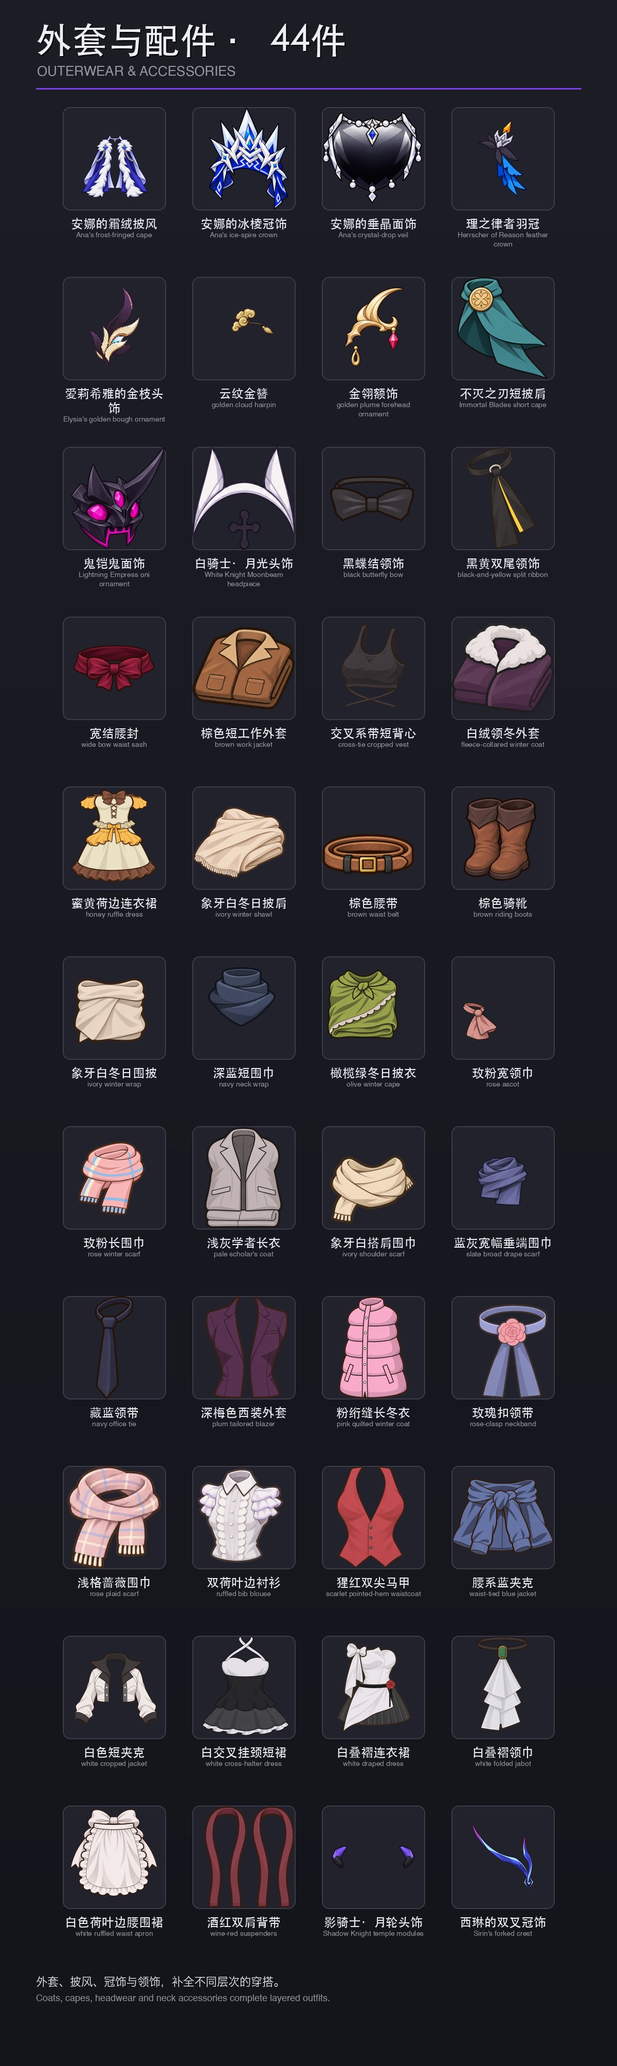
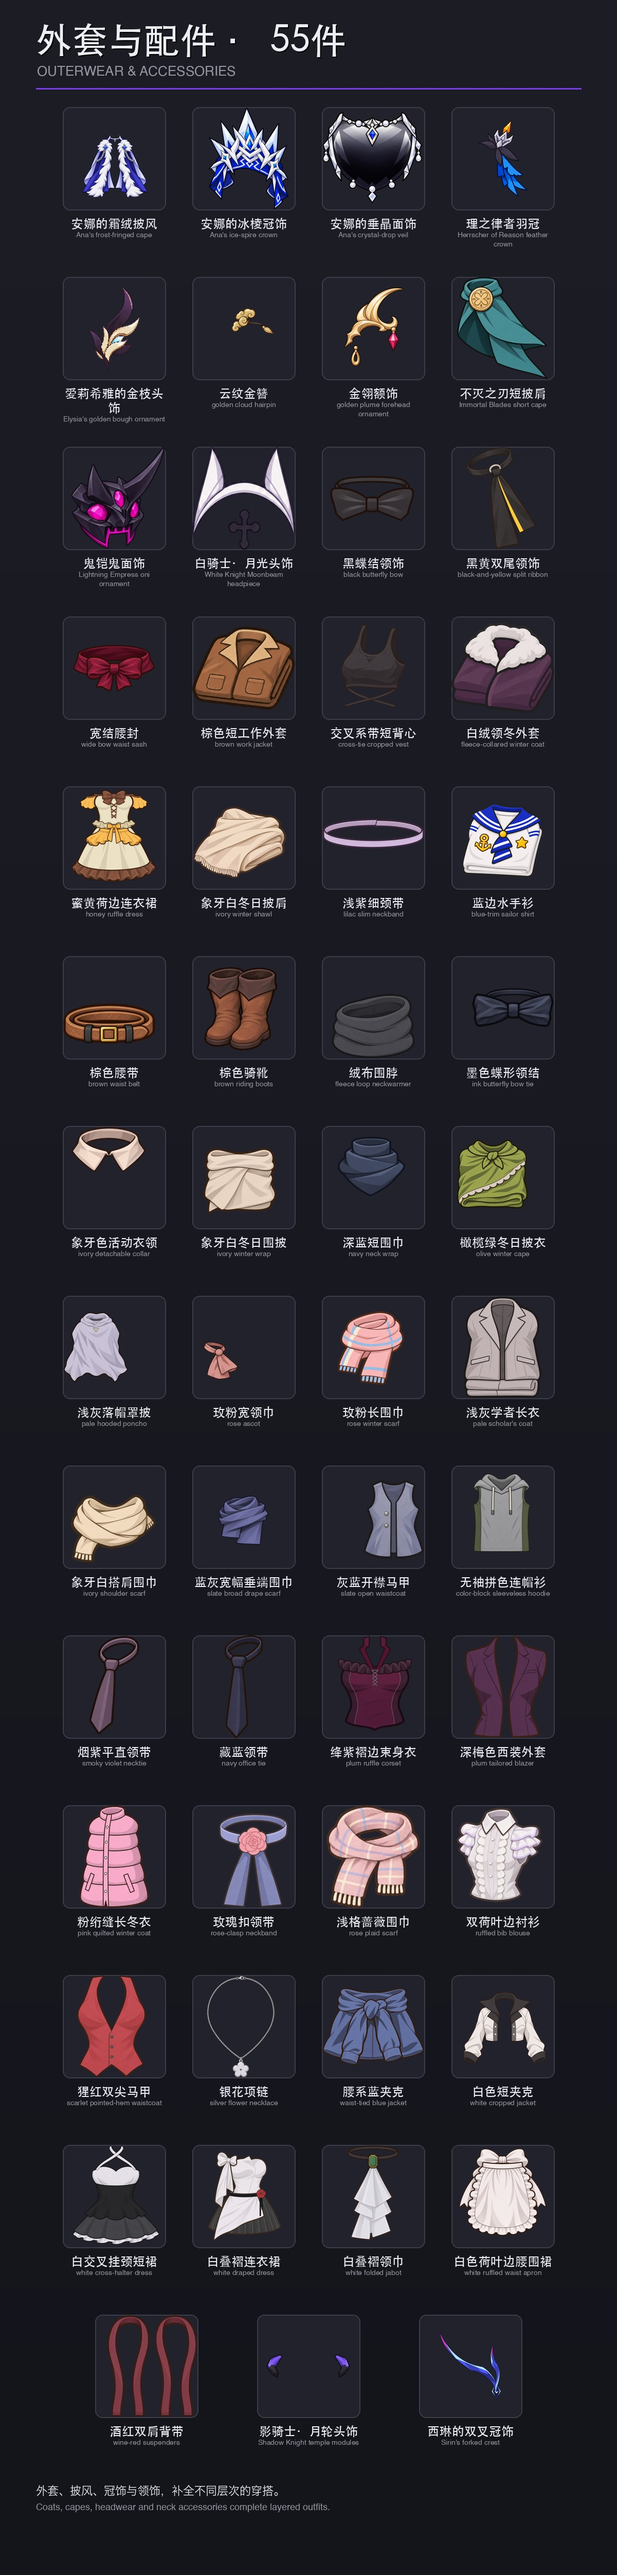
Publish v0.1.5 release notes and Workshop artwork

diff --git a/README.md b/README.md
@@ -1,10 +1,10 @@
 # 边缘崩坏群像
 
-RimWorld 1.6 / 1.7 · Beta v0.1.4
+RimWorld 1.6 / 1.7 · Beta v0.1.5
 
-[下载最新版本](https://github.com/ALANotFound/RimHonkai-Characters-Releases/releases/tag/v0.1.4) · [版本与更新说明](https://github.com/ALANotFound/RimHonkai-Characters-Releases/releases) · [Steam 创意工坊](https://steamcommunity.com/sharedfiles/filedetails/?id=3838570783)
+[下载最新版本](https://github.com/ALANotFound/RimHonkai-Characters-Releases/releases/tag/v0.1.5) · [版本与更新说明](https://github.com/ALANotFound/RimHonkai-Characters-Releases/releases) · [Steam 创意工坊](https://steamcommunity.com/sharedfiles/filedetails/?id=3838570783)
 
-下载 ZIP，解压后将 `RimHonkai-Characters` 文件夹放入游戏的 Mods 目录。请同时安装群像框架 v0.1.4 或更新版本、Harmony 和 HAR。更新后重启游戏，并提前备份存档。
+下载 ZIP，解压后将 `RimHonkai-Characters` 文件夹放入游戏的 Mods 目录。请同时安装群像框架 v0.1.5 或更新版本、Harmony 和 HAR。更新后重启游戏，并提前备份存档。
 
 本库保存发行包、校验文件、发布说明及工坊配图。[源码仓库](https://github.com/ALANotFound/RimHonkai-Characters)。
 

diff --git a/CHANGELOG.md b/CHANGELOG.md
@@ -1,12 +1,14 @@
-# 2026.11.22 v0.1.4 更新公告
+# 2026.11.26 v0.1.5 更新公告
 
 ## 主要更新
 
-- 新增“符华·云墨丹心”和“识之律者·默认形态”外观及配套衣装、饰品
-- 新增59款公共发型，其中男性30款、女性29款
-- 新增39件男女公共服装与配件，涵盖日常衣装、外套、裙装和领饰
-- 新增群像服装分类，区分公共服装、角色服装与头饰配件
+- 修复群像人种生成时无法使用本体已有崩坏异种基因组合的问题
+- 优化多款男性公共发型，移除9款发型选项，并将2款束发、盘发调整至女性公共发型池
+- 优化多款女性公共发型的轮廓、方向衔接与贴合，移除9款女性发型选项
+- 新增“银花项链”“浅紫细颈带”和“绛紫褶边束身衣”，优化穿戴贴合与饰品辨识度
 
-请同时更新群像外观框架至 v0.1.4 或更新版本，并重启游戏。
+使用已移除或调整分类发型的旧角色，更新后可能回退为基础发型
+
+请同时更新群像外观框架至 v0.1.5 或更新版本，并重启游戏。
 
 感谢每一位参与测试的朋友，让Mod越来越好～
